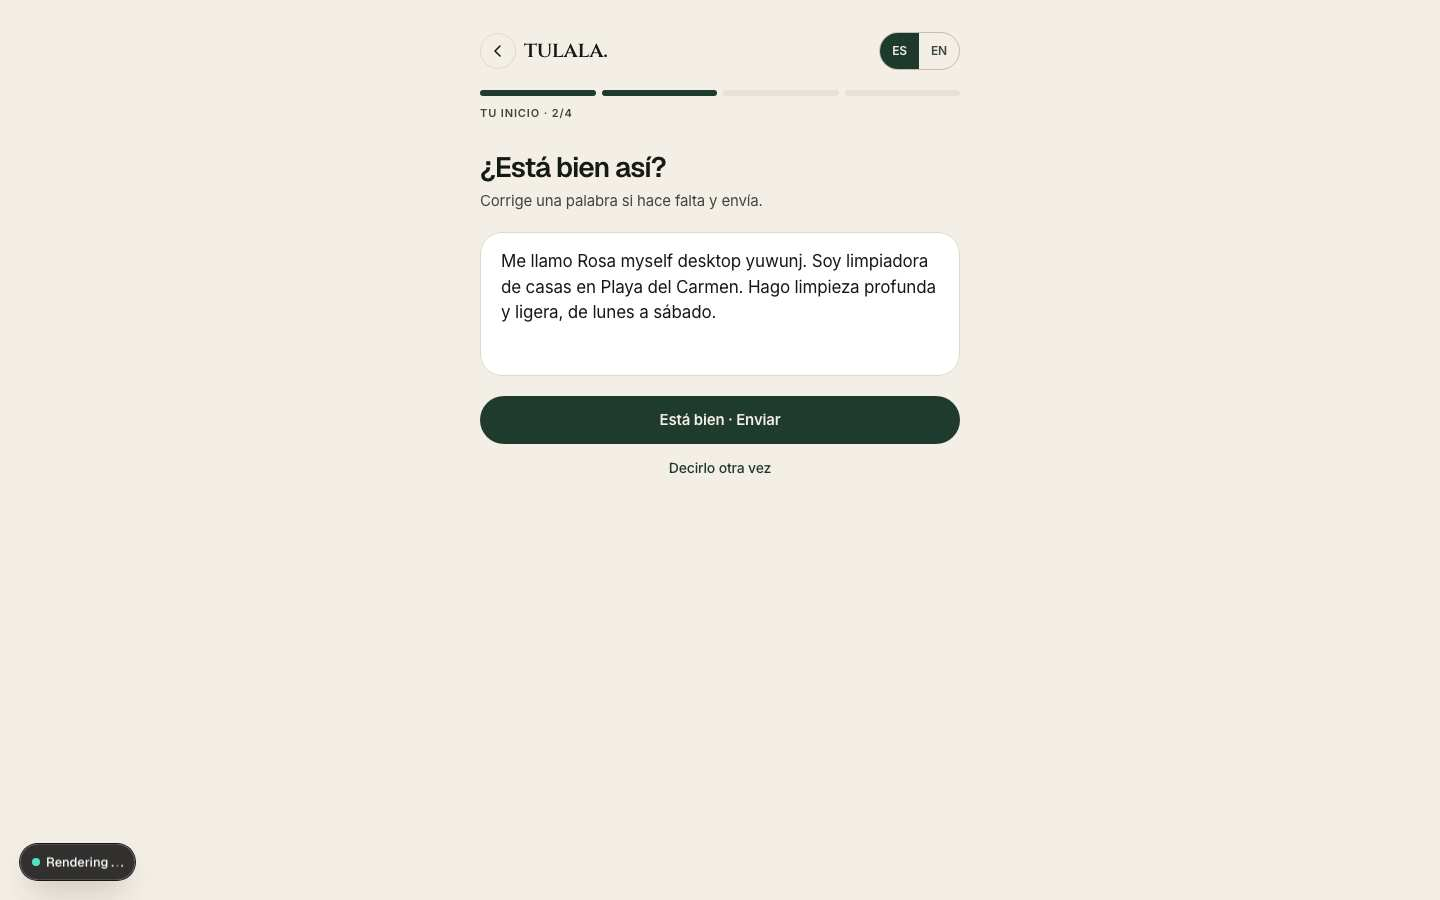
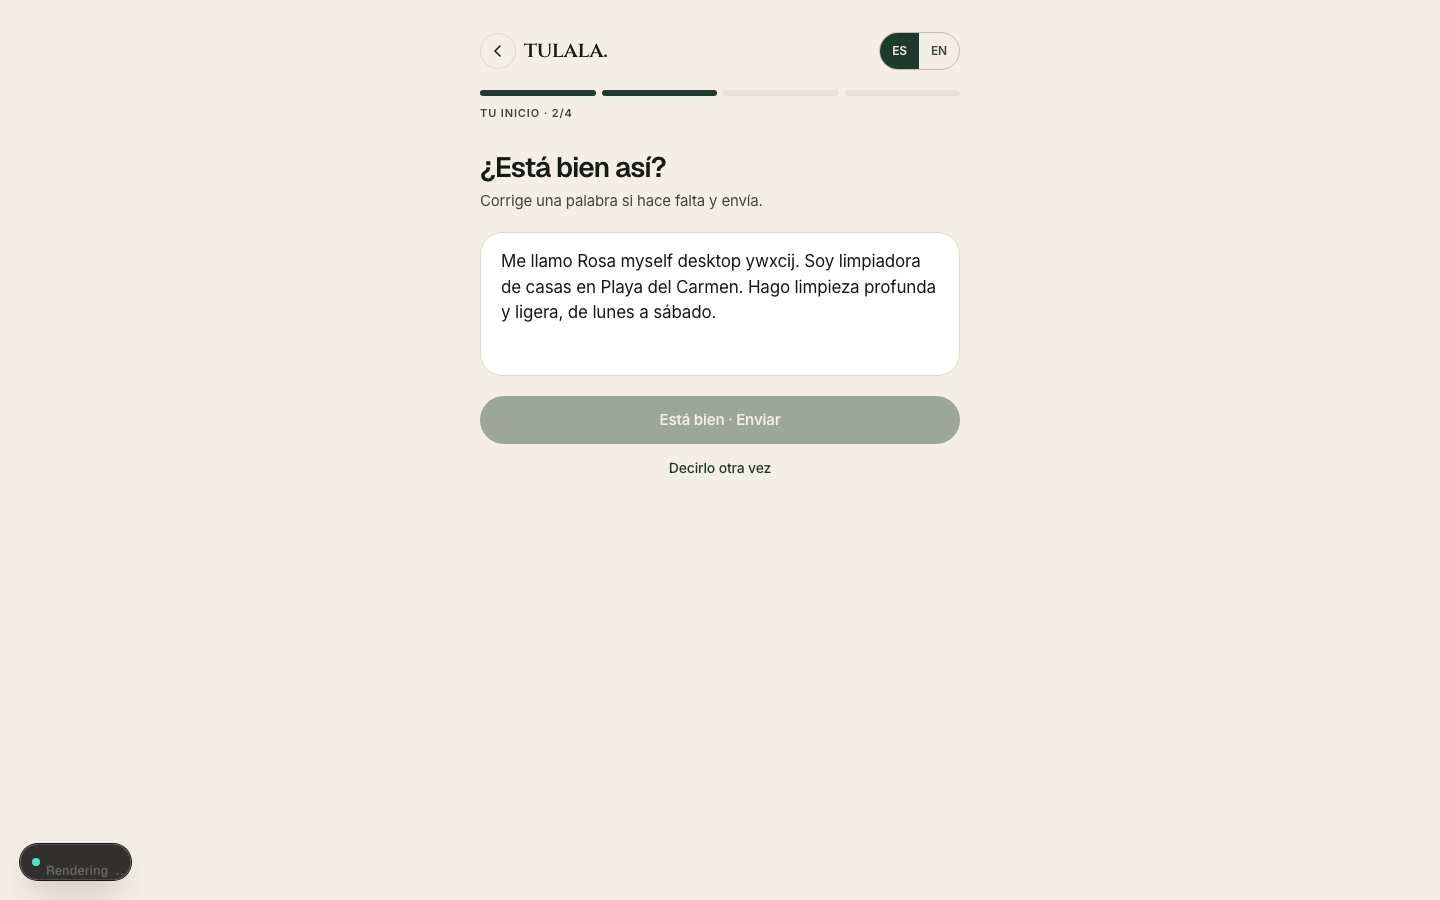
qa: onboarding 3-choice journey rerun after isolated DB migrations (build fails at verifyLive fetching public host)

Changed region(s): [[0.3125, 0.4356, 0.6875, 0.4978], [0.5312, 0.28, 0.6562, 0.3111], [0.0312, 0.9333, 0.0938, 0.9956]]

diff --git a/docs/plans/qa-evidence/onboarding-choices-2026-10-07/RESULTS.md b/docs/plans/qa-evidence/onboarding-choices-2026-10-07/RESULTS.md
@@ -42,3 +42,36 @@ Step 5 repro: sign out, `/api/dev/signin?email=<user>&next=/`; landing takes 17-
 - C1-11: FAIL, Servicios did not show a category control (no "Seguimos intentando" wording captured this run); same missing-schema family.
 - Next: apply the missing migrations to the isolated project only, rerun.
 - Details: env-run-myself-desktop.md
+
+## Rerun after the isolated DB got all migrations (928 applied, newest 20261231347000)
+Stack: dev.sh (next dev :3008) with only these AI variable NAMES exported to the process: ANTHROPIC_API_KEY, OPENAI_API_KEY (no AI_PROVIDER or AI_CREDENTIALS_ENCRYPTION_KEY exist). Supabase stays the worktree's isolated env. Values never recorded. One clean restart before the run (first boot answered 404 on /api/dev/signin, known harness quirk). 9 tests, 1 worker, 17.3 min, no retries.
+
+| Role | 1 front door | 2 screens + code | 3 build + DB | 4 finish | 5 sign out/in | 6 guest booking |
+|---|---|---|---|---|---|---|
+| Para mi, desktop | PASS | PASS | FAIL (arrival-failed; site row OK) | FAIL | FAIL (19.3 s > 15 s) | FAIL |
+| Para mi, phone | PASS | PASS | FAIL (arrival-failed; site row OK) | FAIL | FAIL (>90 s) | FAIL |
+| Estudio, desktop | PASS | PASS | FAIL (arrival-failed) | FAIL | FAIL (16.7 s > 15 s) | FAIL |
+| Estudio, phone | PASS | PASS | FAIL (arrival-failed) | FAIL | FAIL (>90 s) | FAIL |
+| Ambos, desktop | PASS | PASS | FAIL (no talent_sites row, arrival-failed) | FAIL | PASS (11.0 s) | FAIL |
+| Ambos, phone | PASS | PASS | FAIL (no talent_sites row, arrival-failed) | FAIL | FAIL (>90 s) | FAIL |
+
+| Check | Result |
+|---|---|
+| C1-03 account menu sign out | PASS (3 of 3 tries, cookie cleared ~1 s, /talent/today -> /login) |
+| C1-10 Settings working hours | FAIL: no "Zona horaria" combobox on the page reached (60 s) |
+| C1-11 Profile > Servicios | FAIL: "Seguimos intentando" still shown after 15 s |
+
+### What changed vs the first run
+- The schema errors are gone (no `is_demo` or `custom_palette` errors in the log). Para mi now publishes a real talent site row (maison-v2, site_published_at set) and the build fails fast (about 8 s) instead of 180 s.
+- Build still ends on `onb-arrival-failed`. Log: `[onboarding.build.verifyLive] talent:status` (Para mi) and `workspace:status` (Estudio, Ambos).
+
+### Cause of the remaining build failure: ENV (harness)
+`verifyLivePageWithRetry` (src/lib/onboarding/build.server.ts, verify-live.ts) fetches the finish URL server-side from the dev process. On the isolated stack that URL is the public host (e.g. `https://rosa-myself-desktop-ywxcij.tulala.digital/`), which answers 404 because that slug only exists in the isolated DB. The Chromium host-resolver rules in the spec cannot reach a server-side fetch. A schema fix cannot cure this. Possible fixes (not applied): a dev-only override that rewrites the verify host to localhost:3008, or skipping verifyLive when the Supabase target is the isolated project.
+Ambos has no talent_sites row because the Ambos build stops at the workspace step before the talent site step.
+
+### Other
+- Step 5 > 15 s: cold dev compile of /talent/today (same as before); phone runs time out at 90 s because every first route compiles on demand.
+- Server log noise (PRODUCT, minor): `record_phase5_audit: caller not staff of tenant` warns on homepage compose/publish during Estudio/Ambos builds; `analytics_events.tenant_id` null violation on /api/analytics/events from /start (anonymous).
+- Email code: still "Hook requires authorization token" then "email rate limit exceeded" (ENV, isolated auth hook). Spec falls back to createUser + dev sign-in.
+- Dead end "too little" screen still appears even with AI vars set (AI read did not succeed on the isolated stack); spec seeds facts with the service role.
+- C1-10 / C1-11: not classified (ENV vs PRODUCT) because the account never completes the build; needs a rerun once verifyLive is bypassed on the isolated stack.
